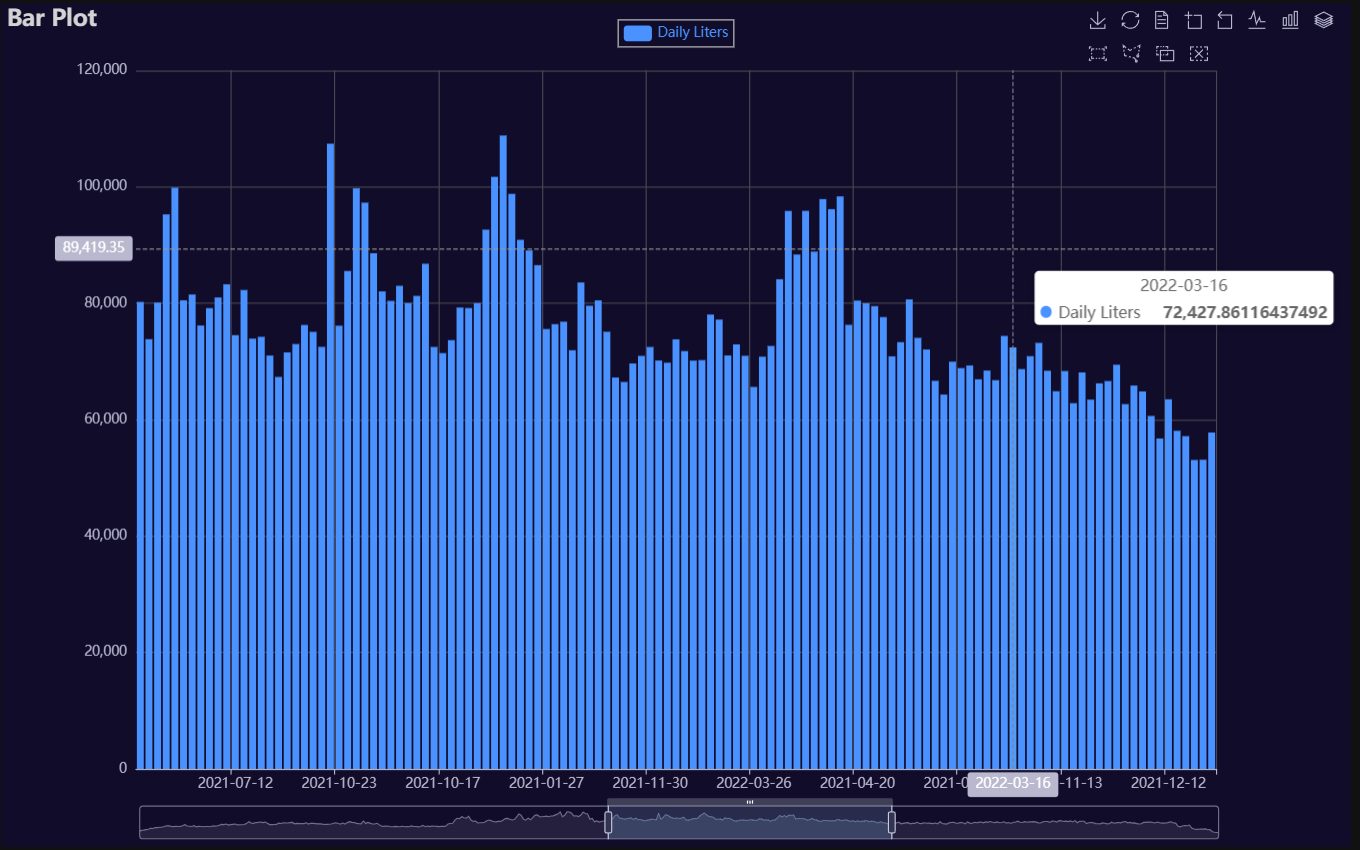
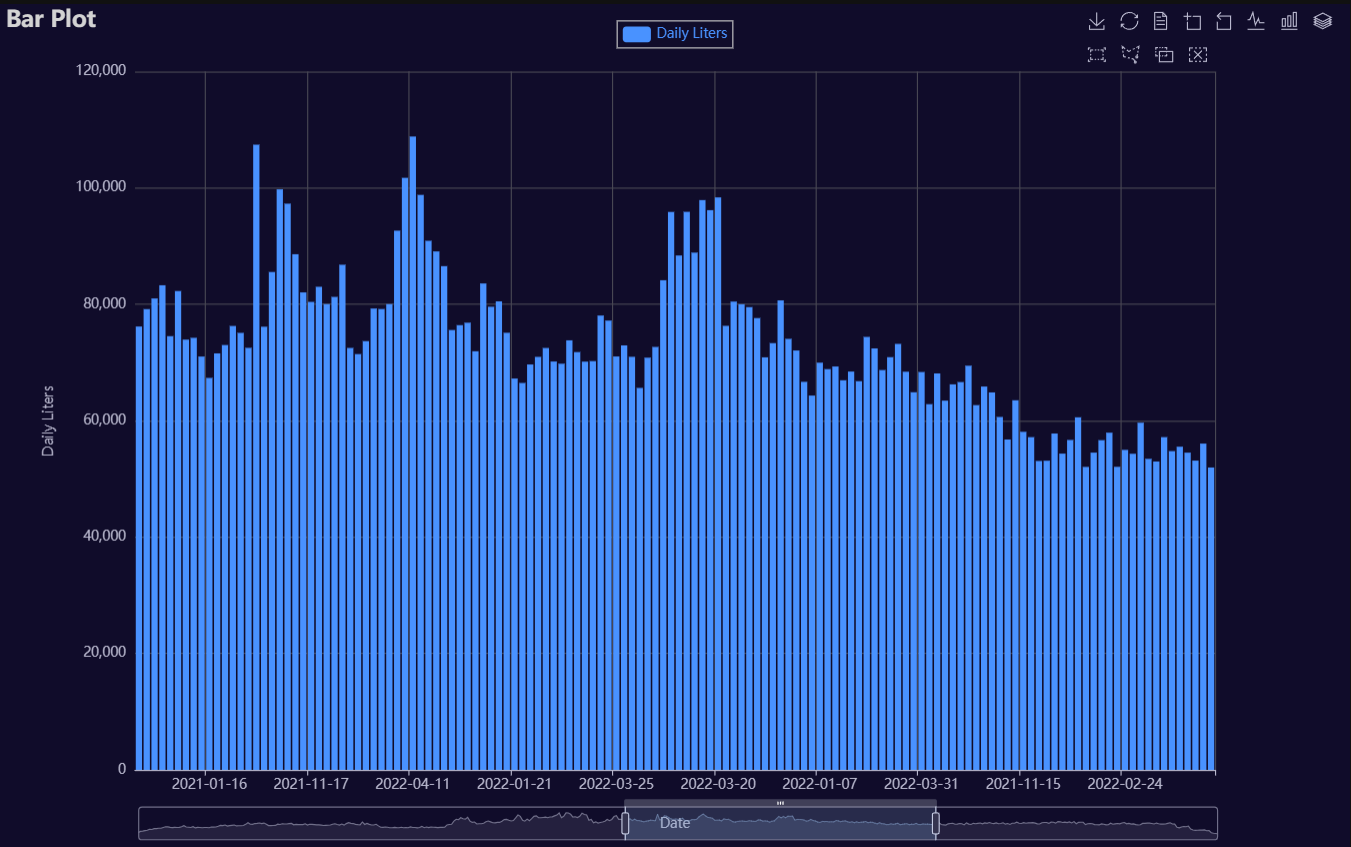
Updates

diff --git a/QuickEcharts/Charts.py b/QuickEcharts/Charts.py
@@ -1941,21 +1941,21 @@ def WordCloud(dt = None,
 
     # Create plot
     c = WordCloud(init_opts = opts.InitOpts(**InitOptions))
-    c = c.add(series_name = YVar, data_pair = data_pair, word_size_range=[6, 66])
+    c = c.add(series_name = YVar, data_pair = data_pair)
 
     # Global Options
     GlobalOptions = {}
     if not Title is None:
       GlobalOptions['title_opts'] = opts.TitleOpts(
-          title = Title, subtitle = SubTitle,
-          title_textstyle_opts = opts.TextStyleOpts(
-            color = TitleColor,
-            font_size = TitleFontSize,
-          ),
-          subtitle_textstyle_opts = opts.TextStyleOpts(
-            color = SubTitleColor,
-            font_size = SubTitleFontSize,
-          )
+        title = Title, subtitle = SubTitle,
+        title_textstyle_opts = opts.TextStyleOpts(
+          color = TitleColor,
+          font_size = TitleFontSize,
+        ),
+        subtitle_textstyle_opts = opts.TextStyleOpts(
+          color = SubTitleColor,
+          font_size = SubTitleFontSize,
+        )
       )
 
     # Final Setting of Global Options

diff --git a/README.md b/README.md
@@ -310,10 +310,10 @@ p1 = Charts.Bar(
   SubTitleColor = "#fff",
   SubTitleFontSize = 12,
   AxisPointerType = 'cross',
-  YAxisTitle = None,
+  YAxisTitle = 'Daily Liters',
   YAxisNameLocation = 'middle',
   YAxisNameGap = 70,
-  XAxisTitle = None,
+  XAxisTitle = 'Date',
   XAxisNameLocation = 'middle',
   XAxisNameGap = 42,
   Legend = 'top',
